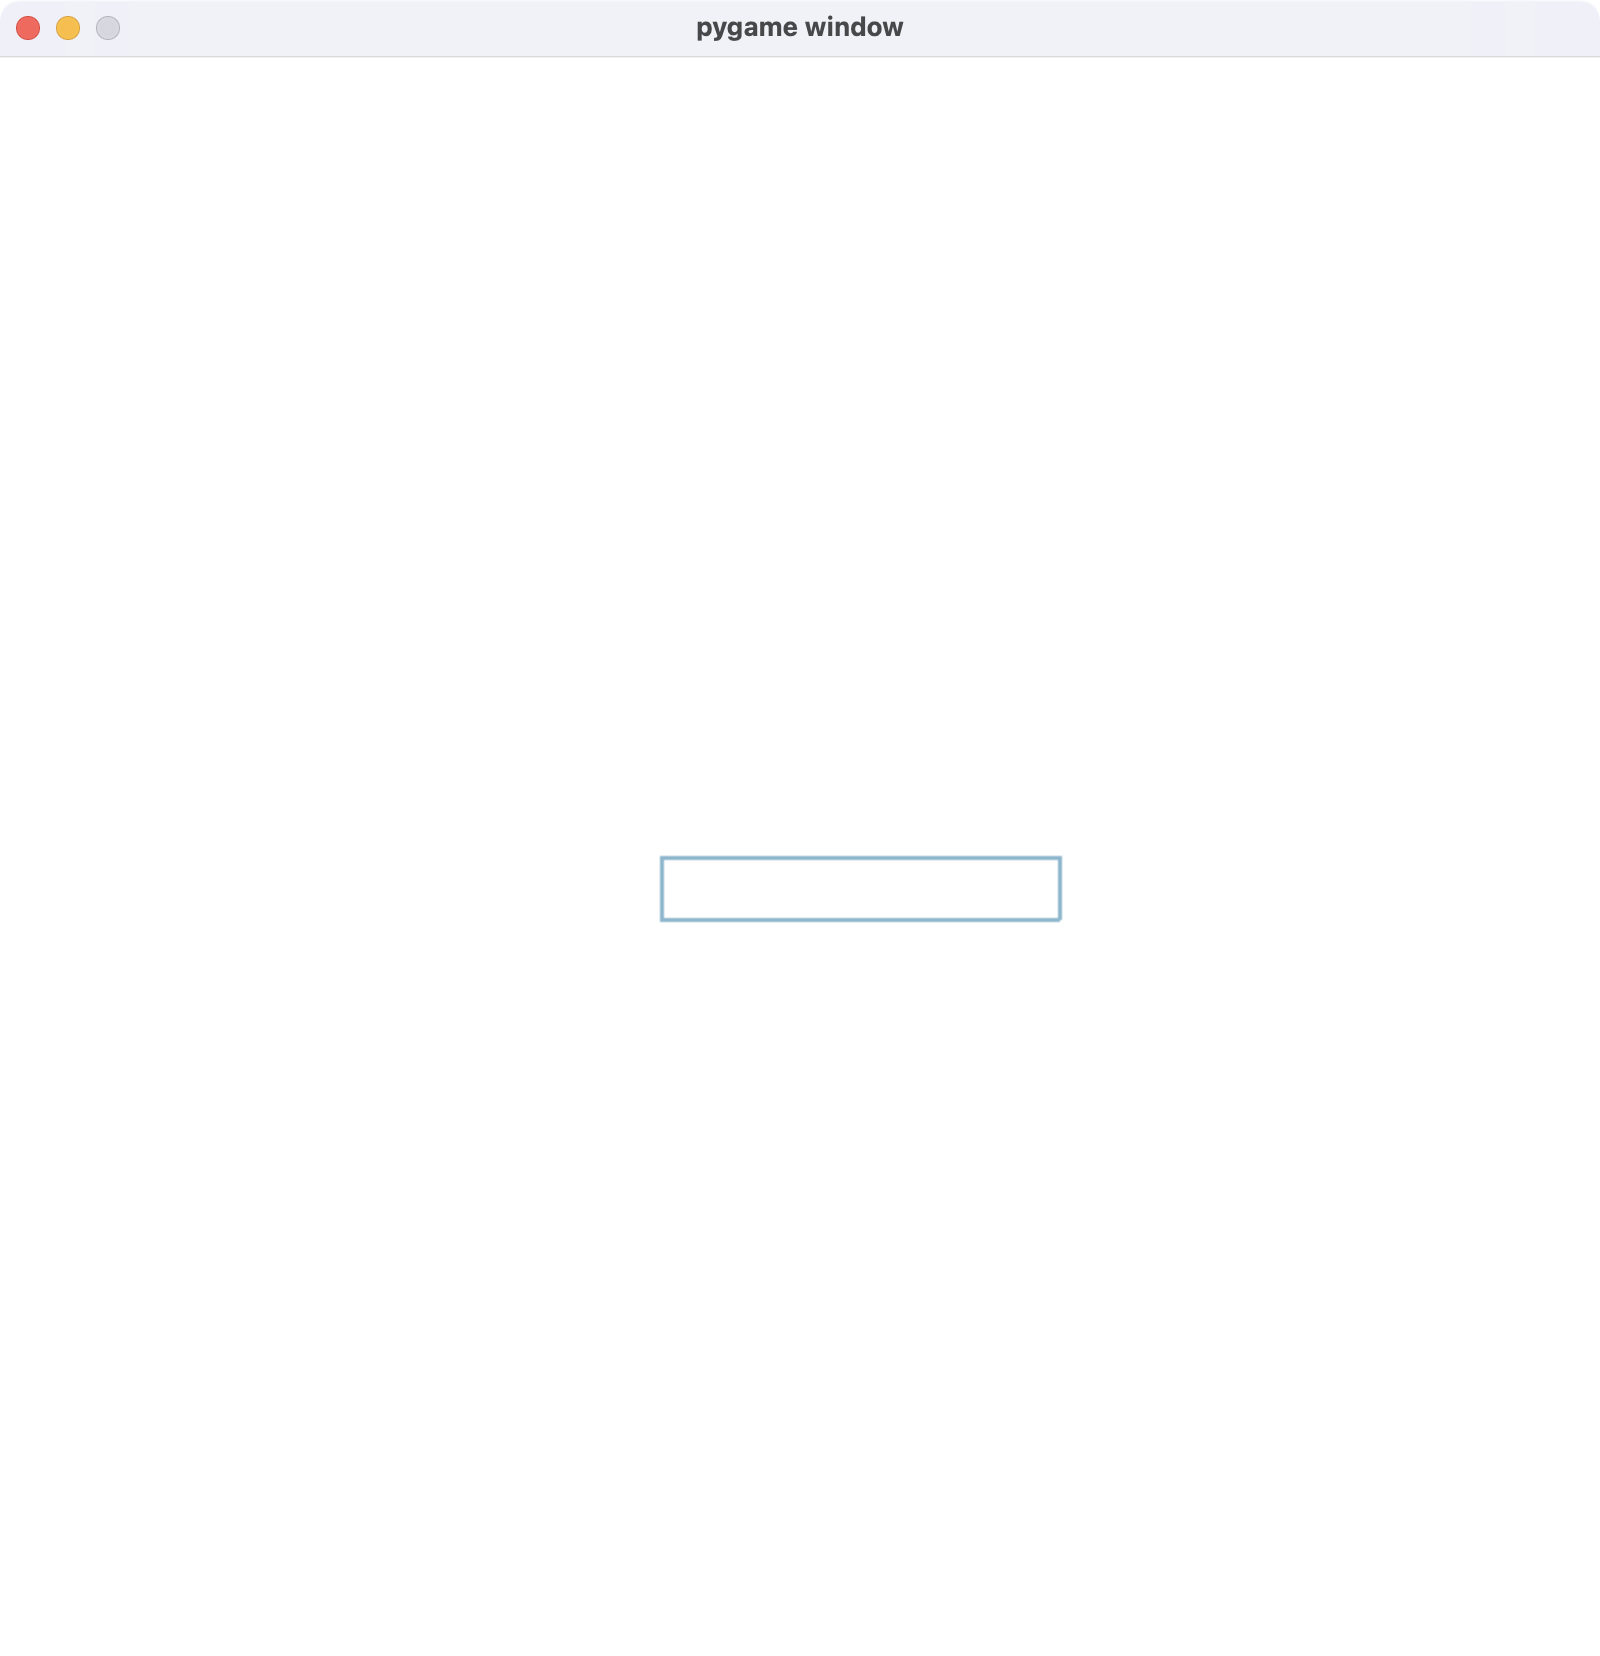
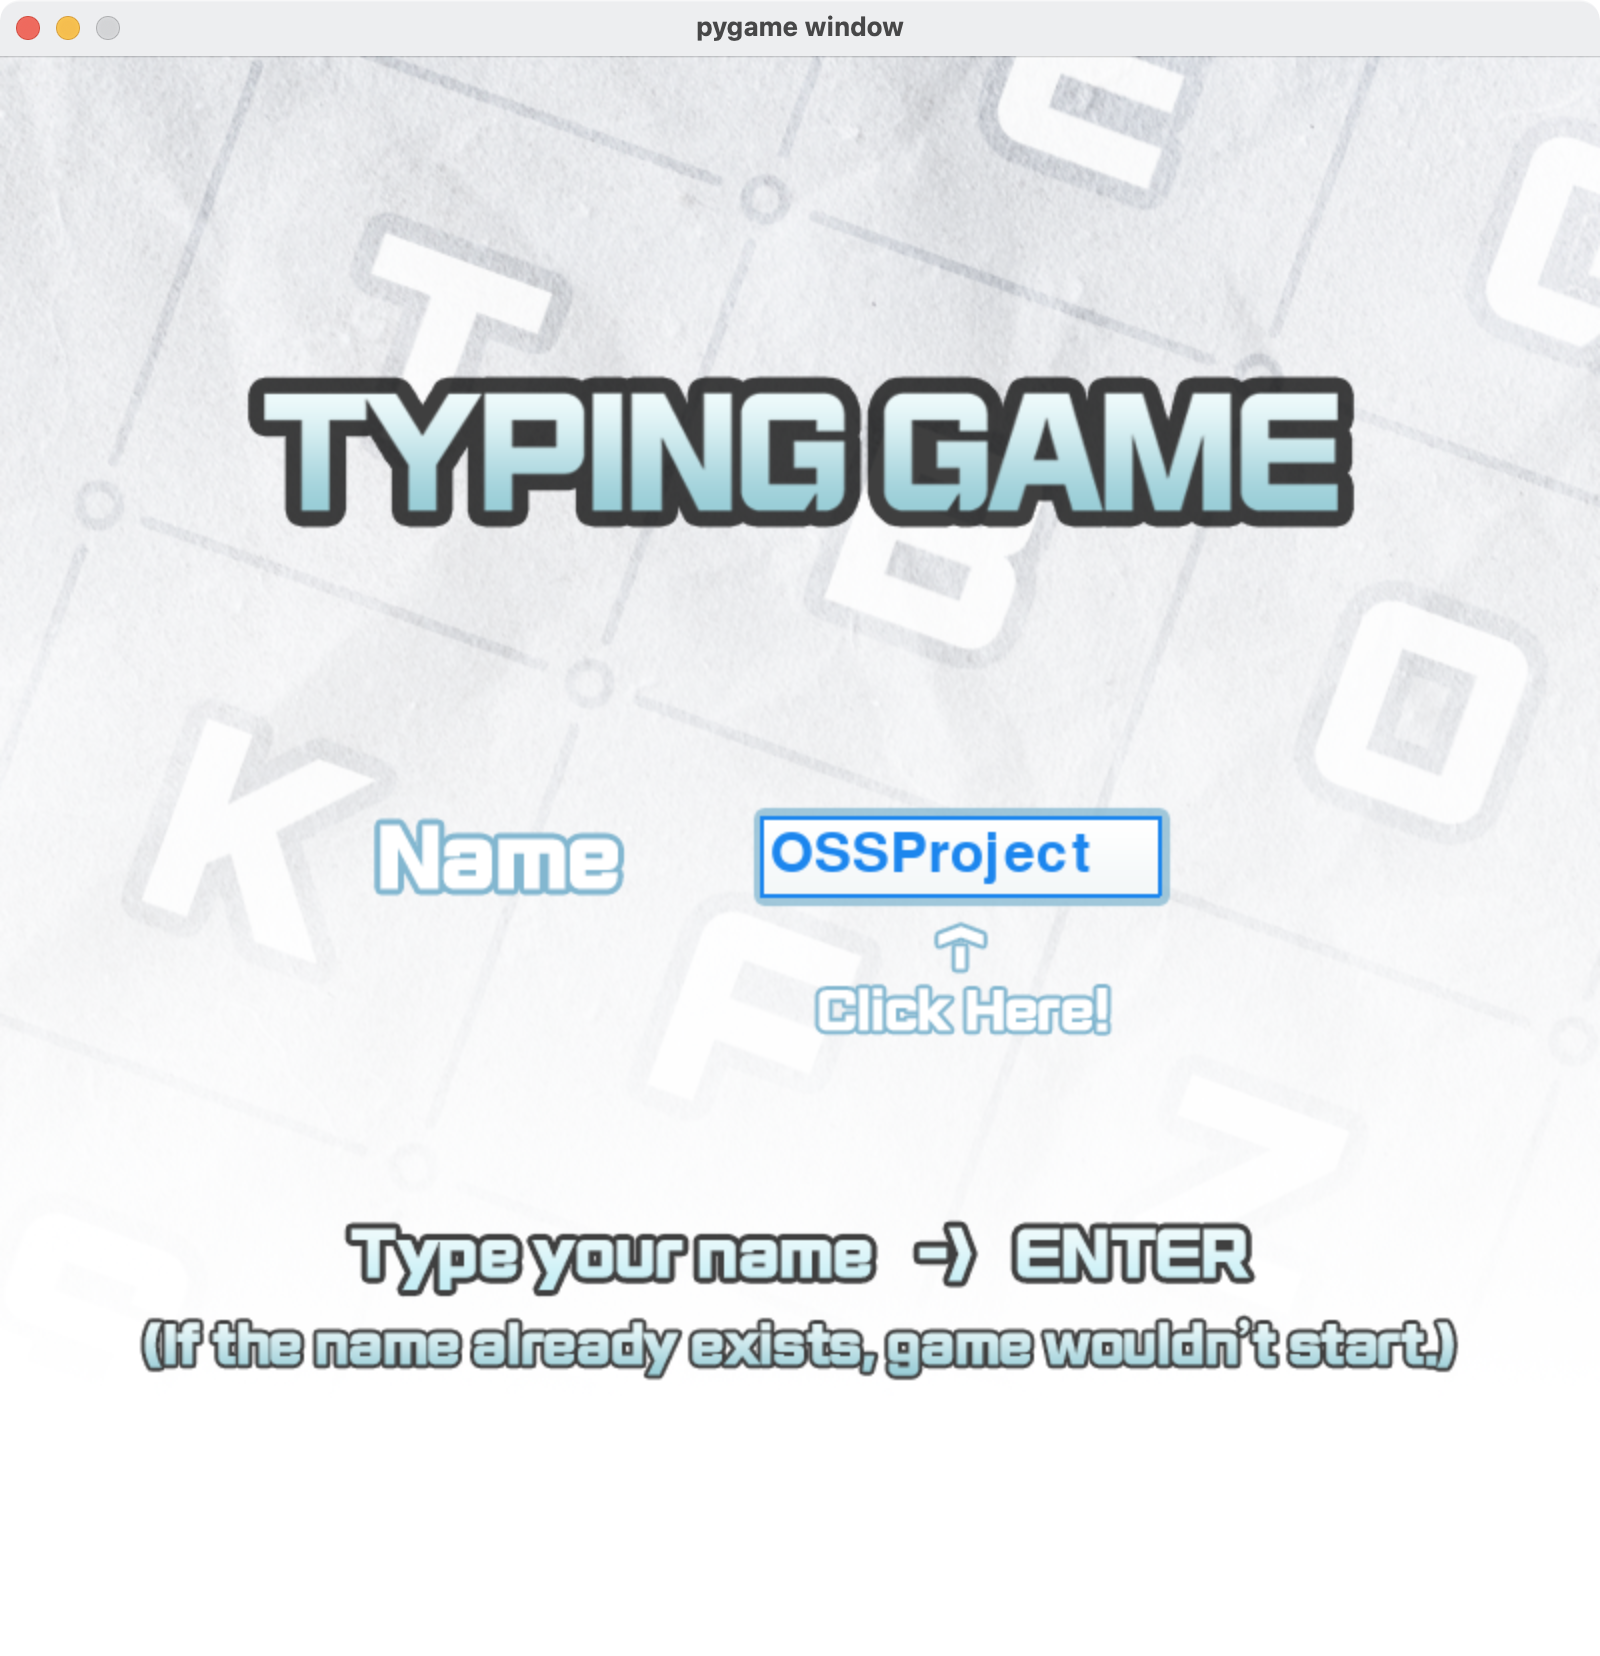
타이틀 디자인, README 갱신

diff --git a/scene.py b/scene.py
@@ -38,7 +38,8 @@ class SceneBase:
 class LogoScene(SceneBase):
     def __init__(self):
         SceneBase.__init__(self)
-        self.name_box = ib.InputBox(330, 400, 140, 32)
+        self.name_box = ib.InputBox(380, 380, 140, 40)
+        self.background = pg.image.load("./image/title.png")
 
     def update(self):
         self.name_box.update()
@@ -46,31 +47,33 @@ class LogoScene(SceneBase):
     def render(self, screen):
         screen.fill((255, 255, 255))
         
+        screen.blit(self.background, (0, 0))
+
         # 제목 추가
-        title_string = 'Typing Game'
-        title_font = pg.font.Font(None, 60)
-        title_font_size = title_font.size(title_string)
-        title_text = title_font.render(title_string, True, self.color)
+        # title_string = 'Typing Game'
+        # title_font = pg.font.Font(None, 60)
+        # title_font_size = title_font.size(title_string)
+        # title_text = title_font.render(title_string, True, self.color)
         
-        name_text = self.font.render('name', True, self.color)
+        # name_text = self.font.render('name', True, self.color)
 
         # 아래 안내 문구 추가
-        info1_string = 'Type your name and press Enter key to start'
-        info1_font = pg.font.Font(None, 30)
-        info1_font_size = info1_font.size(info1_string)
-        info1_text = info1_font.render(info1_string, True, self.color)
+        # info1_string = 'Type your name and press Enter key to start'
+        # info1_font = pg.font.Font(None, 30)
+        # info1_font_size = info1_font.size(info1_string)
+        # info1_text = info1_font.render(info1_string, True, self.color)
 
-        info2_string = "(If the name you input exists, the game wouldn't start.)"
-        info2_font = pg.font.Font(None, 30)
-        info2_font_size = info2_font.size(info2_string)
-        info2_text = info2_font.render(info2_string, True, self.color)
+        # info2_string = "(If the name you input exists, the game wouldn't start.)"
+        # info2_font = pg.font.Font(None, 30)
+        # info2_font_size = info2_font.size(info2_string)
+        # info2_text = info2_font.render(info2_string, True, self.color)
         
-        name_text = self.font.render('name', True, self.color)
+        # name_text = self.font.render('name', True, self.color)
         
-        screen.blit(title_text, ((screen.get_width() // 2) - (title_font_size[0] // 2), 200))
-        screen.blit(name_text, (260, 405))
-        screen.blit(info1_text, ((screen.get_width() // 2) - (info1_font_size[0] // 2), 600))
-        screen.blit(info2_text, ((screen.get_width() // 2) - (info2_font_size[0] // 2), 630))
+        # screen.blit(title_text, ((screen.get_width() // 2) - (title_font_size[0] // 2), 200))
+        # screen.blit(name_text, (260, 405))
+        # screen.blit(info1_text, ((screen.get_width() // 2) - (info1_font_size[0] // 2), 600))
+        # screen.blit(info2_text, ((screen.get_width() // 2) - (info2_font_size[0] // 2), 630))
         self.name_box.render(screen)
 
     def handle_event(self, event):

diff --git a/inputbox.py b/inputbox.py
@@ -3,7 +3,7 @@ import pygame as pg
 pg.init()
 COLOR_INACTIVE = pg.Color('lightskyblue3')
 COLOR_ACTIVE = pg.Color('dodgerblue2')
-FONT = pg.font.Font(None, 32)
+FONT = pg.font.Font(None, 42)
 
 
 class InputBox:

diff --git a/README.md b/README.md
@@ -17,19 +17,24 @@ pip3 install pygame
 or 
 pip install pygame
 ```
-복사된 파일에 다음과 
+복사된 폴더의 main.py 코드를 python으로 실행하면 게임이 시작됩니다!
 
 ## 게임 시작 화면
 ![게임 시작 화면 스크린샷](./screenshots/start.png)
 
-1. 타이틀 이미지 (텍스트)
+1. 배경 이미지
 2. 이름을 적는 공간(텍스트박스)
-3. 게임 시작 버튼
 
-프로그램 실행 시 바로 게임 시작 화면이 뜨며 타이틀 이미지(텍스트)와 이름을 적는 란, 게임 시작 버튼이 나오게 됩니다. 이름을 적고 게임 시작 버튼을 누르면 게임이 시작됩니다. 이름은 중복해서 적을 수 없습니다.
+프로그램 실행 시 바로 게임 시작 화면이 뜨며 타이틀 이미지(텍스트)와 이름을 적는 란이 나오게 됩니다. 하얀색 박스를 클릭하면 이름을 적을 수 있으며, 이름을 적고 엔터 키를 게임이 시작됩니다. 이름은 영어만 입력할 수 있으며 중복해서 적을 수 없습니다.
 
 ## 게임 실행 화면
 
 ## 결과 화면 - 게임 오버
 
 ## 결과 화면 - 게임 클리어
+
+## 참고 소스
+
+<a href="https://kr.freepik.com/photos/background">종이 백그라운드 : rawpixel.com - kr.freepik.com</a>
+
+[Hollow/Outline text module](https://www.pygame.org/pcr/hollow_outline/index.php) by Pete Shinners 
